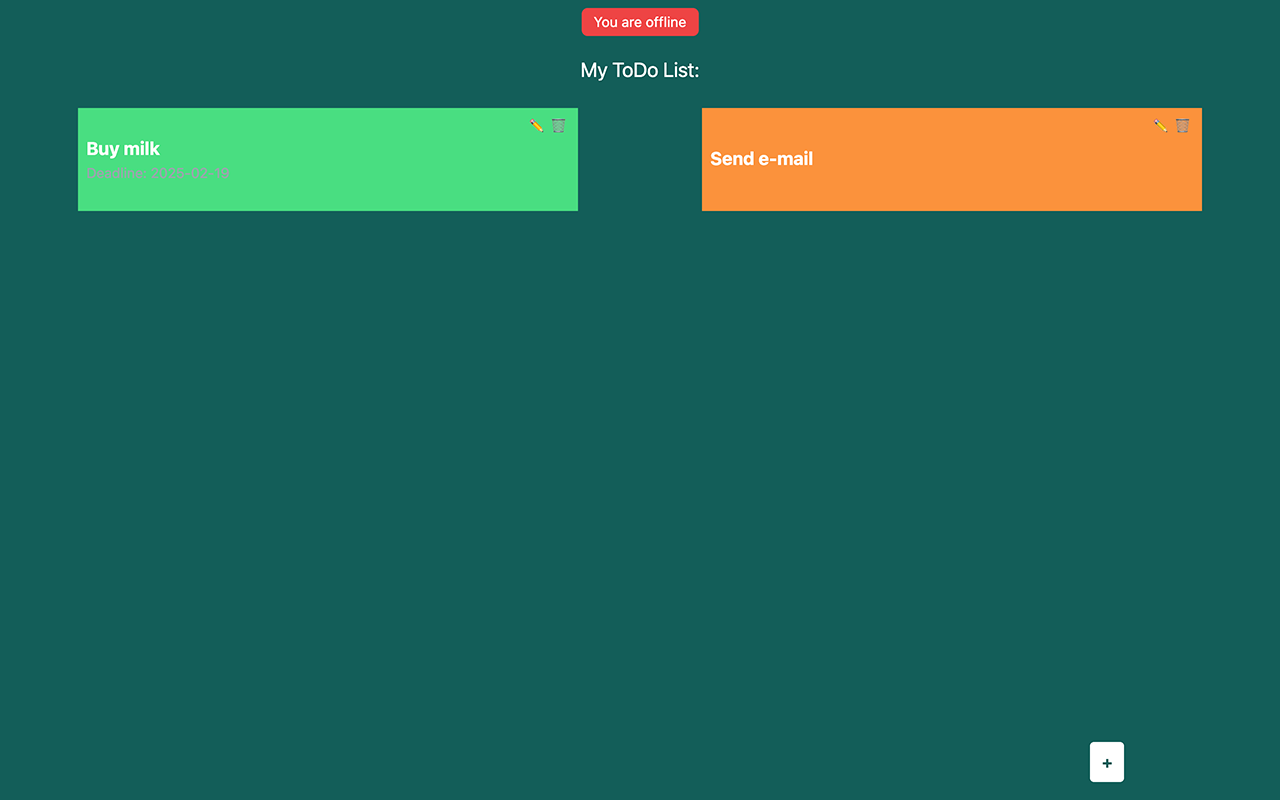
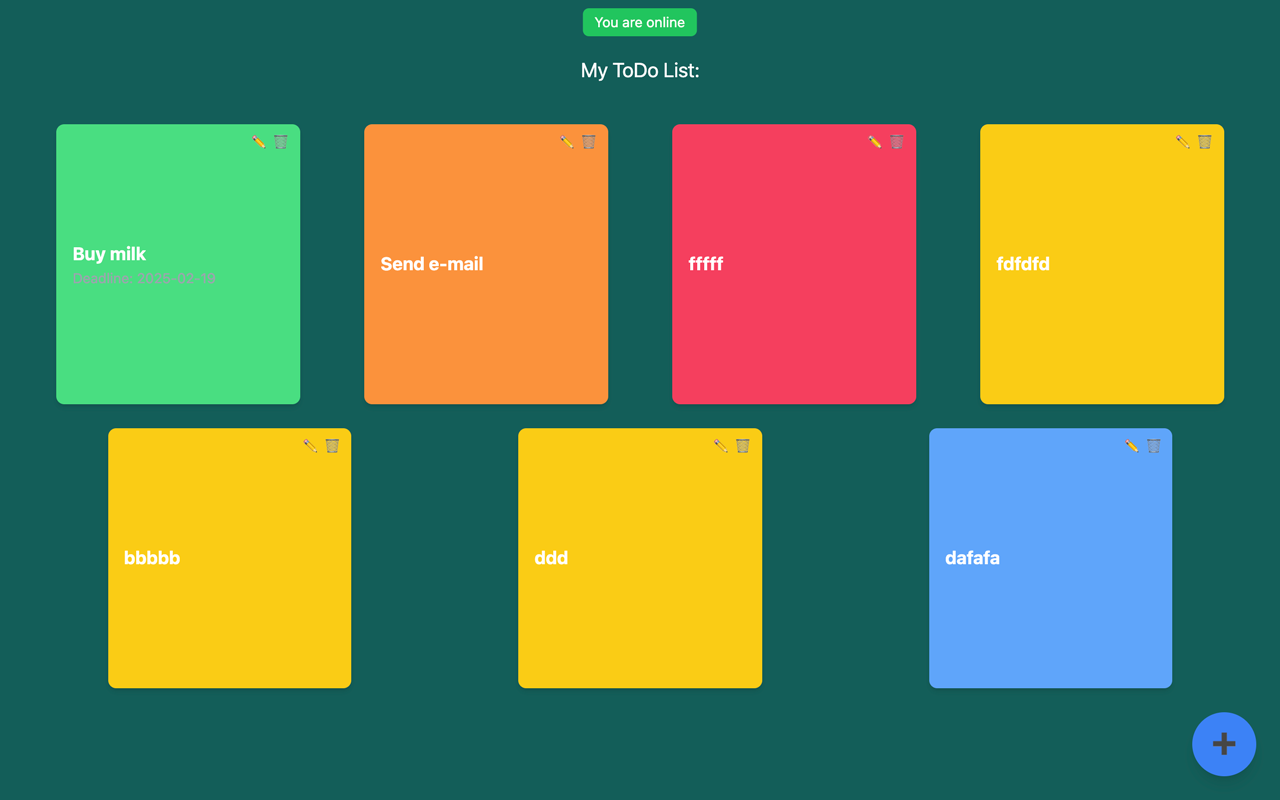
responsive upgrade

diff --git a/src/components/TaskList.jsx b/src/components/TaskList.jsx
@@ -1,22 +1,29 @@
-/* eslint-disable react/prop-types */
 import { useState } from 'react';
 
-export default function TaskList({ taskList, deleteTask, setEditingTask, updateTask, editingTask }) {
+export default function TaskList({ taskList, deleteTask, setEditingTask, updateTask, editingTask, setShowNewTaskForm }) {
+    const [taskToDelete, setTaskToDelete] = useState(null);
     
-    const confirmDelete = (id) => {
-        if (window.confirm('Czy na pewno chcesz usunąć to zadanie?')) {
-            deleteTask(id);
-        }
+    const handleDeleteClick = (task) => {
+        setTaskToDelete(task);
+    };
+    
+    const confirmDelete = () => {
+        deleteTask(taskToDelete.id);
+        setTaskToDelete(null);
+    };
+
+    const closeModal = () => {
+        setTaskToDelete(null);
     };
     
     return (
-        <div className='w-full flex flex-wrap h-screen overflow-y-auto justify-around space-y-2'>
+        <div className='relative w-full flex flex-wrap h-screen overflow-y-auto justify-around gap-4 p-4 pb-24'>
             {taskList.map(item => (
-                <div key={item.id} className={`relative flex flex-col justify-center items-start w-[40%] mt-2 p-2 h-[15%] ${item.priority.color} hover:opacity-75`}>
+                <div key={item.id} className={`relative flex flex-col justify-center items-start w-full sm:w-1/2 md:w-1/3 lg:w-1/4 xl:w-1/5 mt-2 p-4 h-auto ${item.priority.color} hover:opacity-75 rounded-lg shadow-md`}>
                     {/* Ikony edycji i usuwania w prawym górnym rogu */}
                     <div className="absolute top-2 right-2 flex gap-1">
                         <button onClick={() => setEditingTask(item)} className="text-blue-400 text-sm">✏</button>
-                        <button onClick={() => confirmDelete(item.id)} className="text-red-400 text-sm">🗑</button>
+                        <button onClick={() => handleDeleteClick(item)} className="text-red-400 text-sm">🗑</button>
                     </div>
                     {editingTask && editingTask.id === item.id ? (
                         <form onSubmit={(e) => {
@@ -30,7 +37,7 @@ export default function TaskList({ taskList, deleteTask, setEditingTask, updateT
                             />
                             <div className="flex gap-1 mt-1">
                                 <button type="submit" className="bg-blue-500 text-white px-2 py-1 text-xs rounded">💾</button>
-                                <button onClick={() => setEditingTask(null)} className="bg-gray-500 text-white px-2 py-1 text-xs rounded">❌</button>
+                                <button type="button" onClick={() => setEditingTask(null)} className="bg-gray-500 text-white px-2 py-1 text-xs rounded">❌</button>
                             </div>
                         </form>
                     ) : (
@@ -41,6 +48,28 @@ export default function TaskList({ taskList, deleteTask, setEditingTask, updateT
                     )}
                 </div>
             ))}
+
+            {/* Modal do potwierdzenia usunięcia */}
+            {taskToDelete && (
+                <div className="fixed inset-0 flex items-center justify-center bg-black bg-opacity-50">
+                    <div className="bg-white p-4 rounded shadow-md w-80 text-center">
+                        <h3 className="text-lg font-bold mb-4">Czy na pewno chcesz usunąć?</h3>
+                        <p className="text-gray-600">{taskToDelete.name}</p>
+                        <div className="flex justify-between mt-4">
+                            <button onClick={closeModal} className="bg-gray-400 text-white px-4 py-2 rounded">Anuluj</button>
+                            <button onClick={confirmDelete} className="bg-red-500 text-white px-4 py-2 rounded">Usuń</button>
+                        </div>
+                    </div>
+                </div>
+            )}
+
+            {/* Przycisk dodawania nowego zadania */}
+            <button 
+                type="button"
+                onClick={() => setShowNewTaskForm(true)}
+                className="fixed bottom-6 right-6 bg-blue-500 text-white text-3xl font-bold w-16 h-16 flex items-center justify-center rounded-full shadow-lg hover:bg-blue-600 transition-transform transform hover:scale-110 z-50">
+                ➕
+            </button>
         </div>
     );
 }

diff --git a/sw.js b/sw.js
@@ -10,7 +10,7 @@ const STATIC = [
 
 self.addEventListener('install', (event) => {
     console.log('SW install')
-    self.skipWaiting(); // Forces the new SW to activate immediately
+    self.skipWaiting(); // Natychmiastowa aktywacja nowego SW
     event.waitUntil(
         caches.open(cacheName).then((cache) => {
           console.log('Open cache');
@@ -20,13 +20,16 @@ self.addEventListener('install', (event) => {
 })
 
 self.addEventListener('activate', (event) => {
-    console.log('SW activate')
-
-    event.waitUntil(caches.keys().then(cacheNames => {
-        return Promise.all(cacheNames.filter(item => item !== cacheName).map(name => caches.delete(name)))
-    }))
-    self.clients.claim(); // Ensures all clients use the new SW immediately
-})
+    console.log('SW activate');
+    event.waitUntil(
+        caches.keys().then(cacheNames => {
+            return Promise.all(
+                cacheNames.map(name => caches.delete(name)) // Usuwa wszystkie stare cache
+            );
+        })
+    );
+    self.clients.claim(); // Przejmowanie kontroli nad otwartymi stronami
+});
 
 self.addEventListener('fetch', (event) => {
     console.log('SW fetch')

diff --git a/src/App.jsx b/src/App.jsx
@@ -3,7 +3,6 @@ import { openDB } from 'idb'
 import Header from './components/Header'
 import AddNewTaskForm from './components/AddNewTaskForm'
 import TaskList from './components/TaskList'
-import NewTaskFormBtn from './components/NewTaskFormBtn'
 import ConnectionStatus from './components/ConnectionStatus' // Importujemy status połączenia
 
 function App() {
@@ -82,8 +81,7 @@ function App() {
         <ConnectionStatus /> {/* Poprawione – status połączenia nie jest już fixed */}
         <Header />
         {showNewTaskForm && <AddNewTaskForm addNewTask={addNewTask} setShowNewTaskForm={setShowNewTaskForm}/>} 
-        <NewTaskFormBtn showNewTaskForm={showNewTaskForm} setShowNewTaskForm={setShowNewTaskForm}/>     
-        { !showNewTaskForm && <TaskList taskList={taskList} deleteTask={deleteTask} setEditingTask={setEditingTask} updateTask={updateTask} editingTask={editingTask} />}
+        { !showNewTaskForm && <TaskList taskList={taskList} deleteTask={deleteTask} setEditingTask={setEditingTask} updateTask={updateTask} editingTask={editingTask} setShowNewTaskForm={setShowNewTaskForm} />}
       </div>
     </div>
   )
